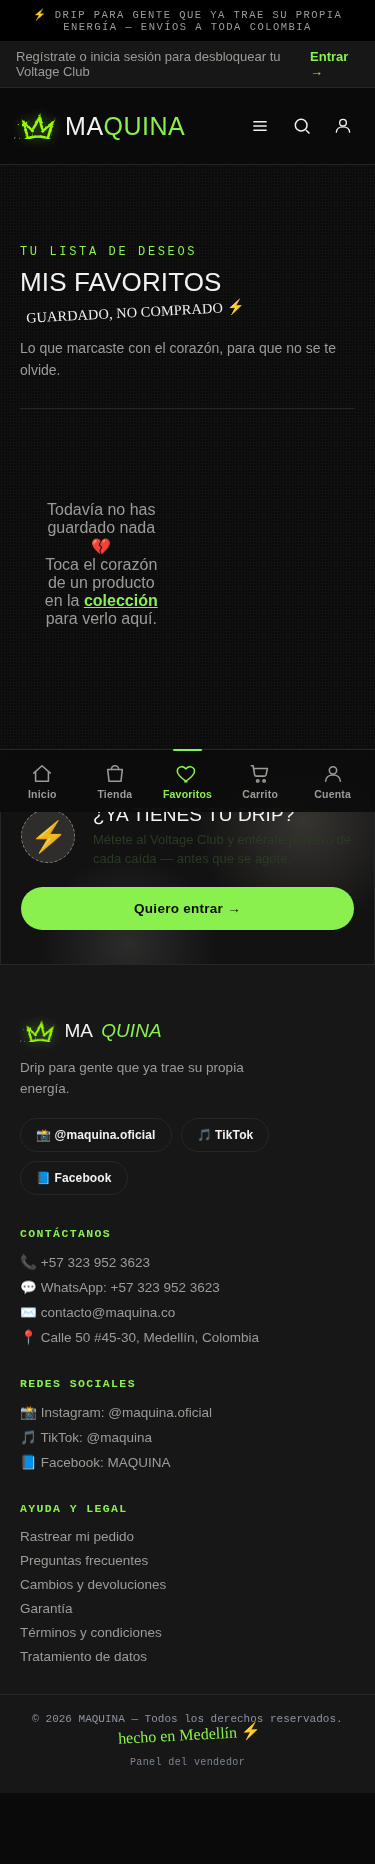
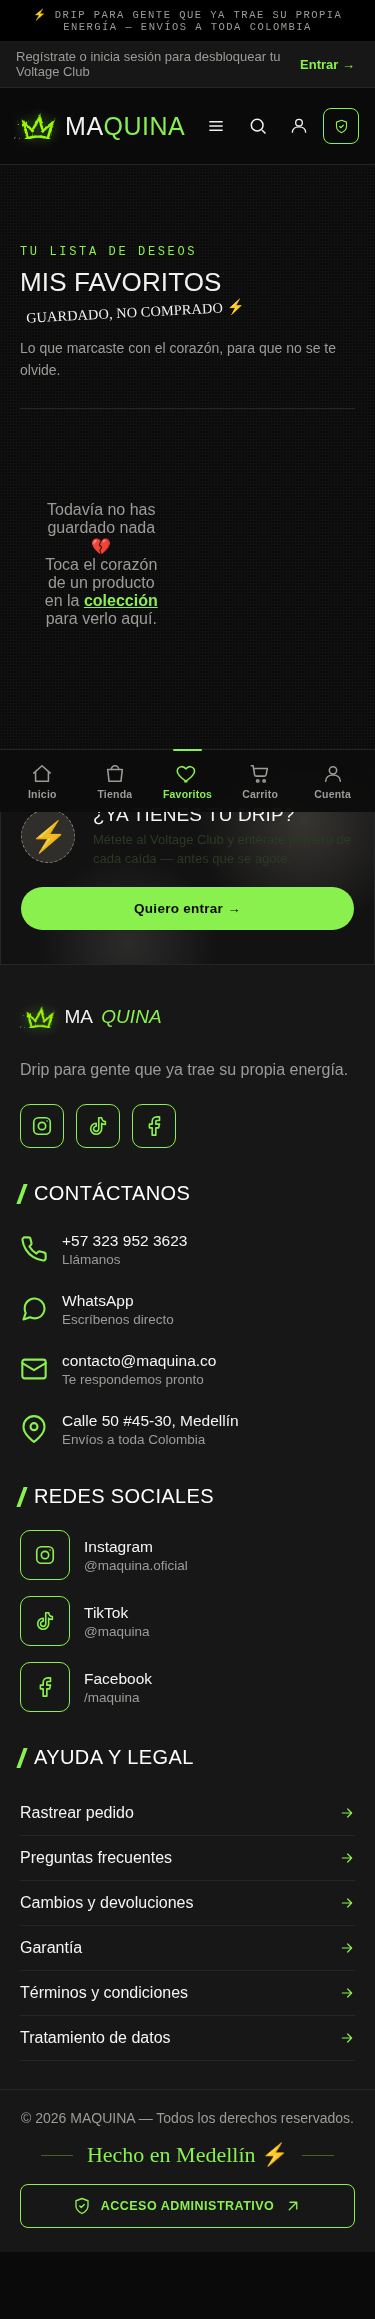
act

diff --git a/css/maquina-sistema.css b/css/maquina-sistema.css
@@ -236,48 +236,48 @@
 .subbar a{white-space:nowrap;flex-shrink:0;}
 
 /* ---------- 11) Pie de página rediseñado (columnas) ---------- */
-.footer-contacto .ft-inner{max-width:1400px;margin:0 auto;padding:56px clamp(20px,5vw,100px) 44px;display:grid;grid-template-columns:1.1fr 1.2fr 1fr 1fr;gap:clamp(28px,4vw,64px);align-items:start;}
-.footer-contacto .ft-slogan{color:var(--gray);font-size:16px;line-height:1.6;margin:14px 0 22px;max-width:260px;}
-.footer-contacto .ft-soc{display:flex;gap:12px;flex-wrap:wrap;}
-.footer-contacto .ft-box{width:44px;height:44px;flex-shrink:0;display:inline-grid;place-items:center;border:1.5px solid var(--acento);border-radius:10px;color:var(--acento);transition:background .2s ease,color .2s ease;}
+.footer-contacto .ft-inner{max-width:1400px;margin:0 auto;padding:42px clamp(20px,5vw,100px) 32px;display:grid;grid-template-columns:1.1fr 1.2fr 1fr 1fr;gap:clamp(22px,3vw,48px);align-items:start;}
+.footer-contacto .ft-slogan{color:var(--gray);font-size:13px;line-height:1.55;margin:10px 0 16px;max-width:230px;}
+.footer-contacto .ft-soc{display:flex;gap:9px;flex-wrap:wrap;}
+.footer-contacto .ft-box{width:34px;height:34px;flex-shrink:0;display:inline-grid;place-items:center;border:1.5px solid var(--acento);border-radius:10px;color:var(--acento);transition:background .2s ease,color .2s ease;}
 .footer-contacto a.ft-box:hover,.footer-contacto a.ft-item:hover .ft-box{background:var(--acento);color:var(--acento-ink);}
-.footer-contacto .ft-box svg{width:22px;height:22px;}
-.footer-contacto .ft-h{display:flex;align-items:center;gap:10px;margin:0 0 22px;font-family:'Anton',sans-serif;font-weight:400;font-size:20px;letter-spacing:.02em;text-transform:uppercase;color:#fff;}
-.footer-contacto .ft-h::before{content:"";width:4px;height:20px;background:var(--acento);transform:skewX(-20deg);}
+.footer-contacto .ft-box svg{width:17px;height:17px;}
+.footer-contacto .ft-h{display:flex;align-items:center;gap:8px;margin:0 0 15px;font-family:'Anton',sans-serif;font-weight:400;font-size:15.5px;letter-spacing:.02em;text-transform:uppercase;color:#fff;}
+.footer-contacto .ft-h::before{content:"";width:3px;height:15px;background:var(--acento);transform:skewX(-20deg);}
 .footer-contacto .ft-list,.footer-contacto .ft-legal{list-style:none;margin:0;padding:0;}
-.footer-contacto .ft-list{display:flex;flex-direction:column;gap:16px;}
-.footer-contacto .ft-item{display:flex;align-items:center;gap:14px;min-height:44px;color:var(--offwhite);text-decoration:none;}
-.footer-contacto .ft-item > svg.ic{width:28px;height:28px;flex-shrink:0;color:var(--acento);}
+.footer-contacto .ft-list{display:flex;flex-direction:column;gap:9px;}
+.footer-contacto .ft-item{display:flex;align-items:center;gap:11px;min-height:34px;color:var(--offwhite);text-decoration:none;}
+.footer-contacto .ft-item > svg.ic{width:22px;height:22px;flex-shrink:0;color:var(--acento);}
 .footer-contacto .ft-item span{min-width:0;}
-.footer-contacto .ft-item b{display:block;font-weight:500;font-size:15.5px;color:var(--offwhite);overflow-wrap:anywhere;}
-.footer-contacto .ft-item small{display:block;margin-top:2px;font-size:13.5px;color:var(--gray);}
+.footer-contacto .ft-item b{display:block;font-weight:500;font-size:12.5px;color:var(--offwhite);overflow-wrap:anywhere;}
+.footer-contacto .ft-item small{display:block;margin-top:1px;font-size:11px;color:var(--gray);}
 .footer-contacto a.ft-item:hover b{color:var(--acento);}
-.footer-contacto .ft-net .ft-box,.footer-contacto .ft-item .ft-box{width:50px;height:50px;}
+.footer-contacto .ft-net .ft-box,.footer-contacto .ft-item .ft-box{width:38px;height:38px;}
 .footer-contacto .ft-legal li{border-bottom:1px solid var(--line);}
-.footer-contacto .ft-legal a{display:flex;align-items:center;justify-content:space-between;gap:12px;min-height:44px;padding:8px 0;color:var(--offwhite);text-decoration:none;}
+.footer-contacto .ft-legal a{display:flex;align-items:center;justify-content:space-between;gap:10px;min-height:34px;padding:5px 0;font-size:12.5px;color:var(--offwhite);text-decoration:none;}
 .footer-contacto .ft-legal a:hover{color:var(--acento);}
-.footer-contacto .ft-legal svg{width:16px;height:16px;flex-shrink:0;color:var(--acento);}
-.footer-contacto .ft-bottom{max-width:1400px;margin:0 auto;padding:22px clamp(20px,5vw,100px) 28px;border-top:1px solid var(--line);display:grid;grid-template-columns:1fr auto 1fr;align-items:center;gap:16px 24px;}
-.footer-contacto .ft-copy{margin:0;font-size:14px;color:var(--gray);}
-.footer-contacto .ft-made{display:flex;align-items:center;gap:14px;font-family:'Caveat',cursive;font-size:22px;color:var(--acento);white-space:nowrap;}
-.footer-contacto .ft-made::before,.footer-contacto .ft-made::after{content:"";width:60px;height:1px;background:rgba(138,240,78,.35);}
-.footer-contacto .ft-admin{justify-self:end;display:inline-flex;align-items:center;justify-content:center;gap:10px;min-height:44px;padding:10px 18px;border:1.5px solid var(--acento);border-radius:8px;color:var(--acento);font-size:12.5px;font-weight:700;letter-spacing:.04em;text-transform:uppercase;text-decoration:none;transition:background .2s ease,color .2s ease;}
-.footer-contacto .ft-admin svg{width:18px;height:18px;flex-shrink:0;}
+.footer-contacto .ft-legal svg{width:13px;height:13px;flex-shrink:0;color:var(--acento);}
+.footer-contacto .ft-bottom{max-width:1400px;margin:0 auto;padding:14px clamp(20px,5vw,100px) 18px;border-top:1px solid var(--line);display:grid;grid-template-columns:1fr auto 1fr;align-items:center;gap:10px 20px;}
+.footer-contacto .ft-copy{margin:0;font-size:11.5px;color:var(--gray);}
+.footer-contacto .ft-made{display:flex;align-items:center;gap:11px;font-family:'Caveat',cursive;font-size:17px;color:var(--acento);white-space:nowrap;}
+.footer-contacto .ft-made::before,.footer-contacto .ft-made::after{content:"";width:44px;height:1px;background:rgba(138,240,78,.35);}
+.footer-contacto .ft-admin{justify-self:end;display:inline-flex;align-items:center;justify-content:center;gap:7px;min-height:30px;padding:5px 11px;border:1px solid rgba(138,240,78,.55);border-radius:7px;color:var(--acento);font-size:10.5px;font-weight:600;letter-spacing:.05em;text-transform:uppercase;text-decoration:none;transition:background .2s ease,color .2s ease;}
+.footer-contacto .ft-admin svg{width:13px;height:13px;flex-shrink:0;}
 .footer-contacto .ft-admin:hover{background:var(--acento);color:var(--acento-ink);}
 @media (max-width:1000px){
-  .footer-contacto .ft-inner{grid-template-columns:1fr 1fr;padding-top:44px;}
+  .footer-contacto .ft-inner{grid-template-columns:1fr 1fr;padding-top:34px;}
   .footer-contacto .ft-brand{grid-column:1/-1;}
   .footer-contacto .ft-slogan{max-width:none;}
 }
 @media (max-width:700px){
   .footer-contacto .ft-bottom{grid-template-columns:1fr;text-align:center;justify-items:center;}
   .footer-contacto .ft-made{order:2;}
-  .footer-contacto .ft-admin{order:3;justify-self:stretch;}
+  .footer-contacto .ft-admin{order:3;justify-self:center;}
   .footer-contacto .ft-copy{order:1;}
 }
 @media (max-width:560px){
-  .footer-contacto .ft-inner{grid-template-columns:1fr;gap:34px;padding:36px 20px 28px;}
-  .footer-contacto .ft-bottom{padding:20px 20px 24px;}
+  .footer-contacto .ft-inner{grid-template-columns:1fr;gap:24px;padding:28px 20px 20px;}
+  .footer-contacto .ft-bottom{padding:14px 20px 18px;}
   .footer-contacto .ft-made::before,.footer-contacto .ft-made::after{width:32px;}
 }
 
@@ -302,3 +302,6 @@
 .yd-com-card figcaption{margin-top:auto;font-size:13px;color:var(--gray);}
 .yd-com-card figcaption b{color:var(--offwhite);}
 .yd-com-card figcaption a{color:var(--acento);}
+
+.footer-contacto .ft-bottom::after{content:"";}
+@media (max-width:700px){.footer-contacto .ft-bottom::after{display:none;}}

diff --git a/js/layout.js b/js/layout.js
@@ -81,6 +81,7 @@ function renderHeader(paginaActual = "") {
           <svg class="icon-btn" viewBox="0 0 24 24" fill="none" stroke="currentColor" stroke-width="1.8"><circle cx="11" cy="11" r="7"/><path d="m21 21-4.3-4.3"/></svg>
         </button>
         ${cuentaHtml}
+        <a href="admin.html" class="admin-access" aria-label="Acceso admin" title="Acceso admin"><svg viewBox="0 0 24 24" fill="none" stroke="currentColor" stroke-width="1.8" stroke-linecap="round" stroke-linejoin="round" aria-hidden="true"><path d="M12 22s8-4 8-10V5l-8-3-8 3v7c0 6 8 10 8 10z"/><path d="m9 12 2 2 4-4"/></svg><span class="admin-access-txt">Acceso admin</span><svg class="admin-access-arr" viewBox="0 0 24 24" fill="none" stroke="currentColor" stroke-width="2" stroke-linecap="round" stroke-linejoin="round" aria-hidden="true"><path d="M5 12h14M13 6l6 6-6 6"/></svg></a>
         <a class="fav-pill" href="favoritos.html" aria-label="Mis favoritos" title="Mis favoritos">
           <svg class="icon-btn" viewBox="0 0 24 24" fill="none" stroke="currentColor" stroke-width="1.8"><path d="M12 20.5s-7.6-4.6-10-9.3C.5 7.8 2.3 4.5 5.6 4c2-.3 3.9.7 5 2.3.1.15.3.15.4 0 1.1-1.6 3-2.6 5-2.3 3.3.5 5.1 3.8 3.6 7.2-2.4 4.7-10 9.3-10 9.3z"/></svg>
           <span id="favCount" class="fav-count ${totalFavoritosCount() === 0 ? 'hidden' : ''}">${totalFavoritosCount()}</span>
@@ -116,6 +117,7 @@ function renderHeader(paginaActual = "") {
         ${usuario
           ? `<a href="#" id="mobileLogout">Cerrar sesión</a>`
           : `<a href="login.html" class="mobile-nav-primary">Iniciar sesión</a><a href="registro.html">Crear cuenta</a>`}
+        <a href="admin.html" class="mobile-nav-admin">Acceso admin</a>
       </div>
     </div>
 
@@ -312,7 +314,6 @@ function renderFooter() {
       <div class="ft-bottom">
         <p class="ft-copy">© 2026 MAQUINA — Todos los derechos reservados.</p>
         <span class="ft-made">Hecho en Medellín ⚡</span>
-        <a href="admin.html" class="ft-admin"><svg class="ic" viewBox="0 0 24 24" fill="none" stroke="currentColor" stroke-width="1.8" stroke-linecap="round" stroke-linejoin="round" aria-hidden="true"><path d="M12 22s8-4 8-10V5l-8-3-8 3v7c0 6 8 10 8 10z"/><path d="m9 12 2 2 4-4"/></svg>Acceso administrativo<svg class="ic" viewBox="0 0 24 24" fill="none" stroke="currentColor" stroke-width="1.8" stroke-linecap="round" stroke-linejoin="round" aria-hidden="true"><path d="M7 17 17 7M8 7h9v9"/></svg></a>
       </div>
     </footer>
   `;

diff --git a/css/estilos.css b/css/estilos.css
@@ -2917,3 +2917,15 @@ textarea.pe-input{resize:vertical;min-height:84px;}
 /* ---- aviso (toast) del panel: por encima de los modales y sin asomarse cuando está oculto ---- */
 body:has(#adminDashView) .toast{z-index:400;bottom:calc(26px + env(safe-area-inset-bottom));transition:transform .35s cubic-bezier(.2,.9,.3,1.2),visibility 0s linear .35s;visibility:hidden;}
 body:has(#adminDashView) .toast.show{visibility:visible;transition:transform .35s cubic-bezier(.2,.9,.3,1.2),visibility 0s;}
+
+/* Acceso admin: botón discreto, separado de la cuenta de clientes */
+.admin-access{display:inline-flex;align-items:center;gap:6px;margin:0 8px 0 10px;padding:6px 11px;border:1px solid var(--acento);border-radius:8px;color:var(--acento);font-size:12px;font-weight:600;line-height:1;white-space:nowrap;background:transparent;transition:background .2s,box-shadow .2s;}
+.admin-access svg{width:15px;height:15px;flex:none;}
+.admin-access:hover,.admin-access:focus-visible{background:rgba(138,240,78,.1);box-shadow:0 0 10px var(--acento-glow);}
+.mobile-nav-foot a.mobile-nav-admin{border-color:var(--acento);color:var(--acento);background:transparent;font-size:13px;padding:10px 14px;}
+@media (max-width:1100px){
+  .admin-access{margin:0 4px;padding:0;width:40px;min-height:40px;justify-content:center;}
+  .admin-access-txt,.admin-access-arr{display:none;}
+}
+@media (max-width:480px){.admin-access{display:none;}}
+@media (min-width:481px){.mobile-nav-admin{display:none;}}
